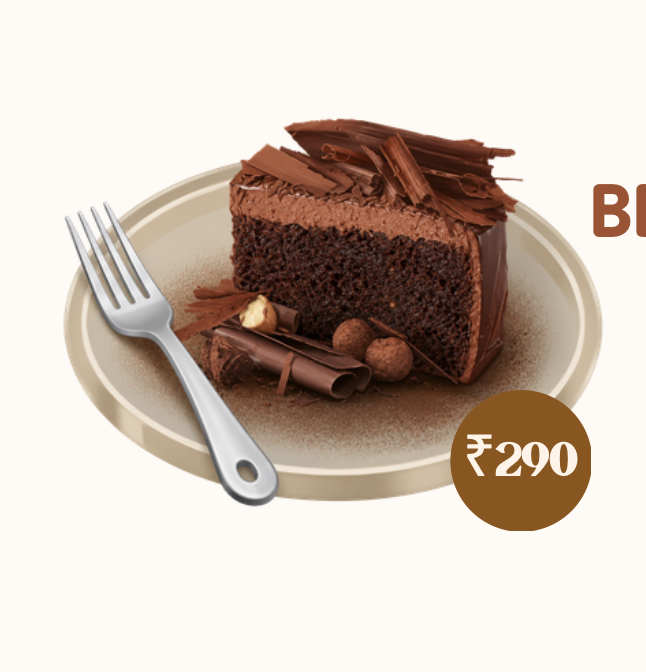
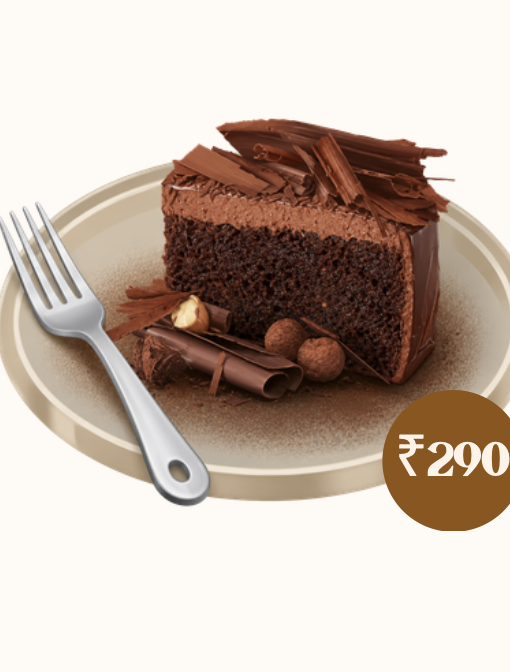
Fix dessert images: natural height + crop BI artifact from ds5
- Use height:auto on inline food photos so images show at full natural
  proportions without any vertical cropping
- Crop ds5.png (Belgian Chocolate Cake) to remove the 'BI' text that
  was baked into the right edge of the source image file

Changed region(s): [[0.0, 0.1562, 1.0, 0.8125]]

diff --git a/public/menu.html b/public/menu.html
@@ -1167,7 +1167,7 @@
             <div class="item-right" id="ctrl-${item.id}">${ctrl}</div>
           </div>
           <div style="padding:0 1rem 1rem;">
-            <img src="${itemImg}" alt="${item.name}" style="width:100%;height:180px;object-fit:cover;border-radius:12px;display:block;${unavailable?'opacity:0.4;filter:grayscale(1);':''}">
+            <img src="${itemImg}" alt="${item.name}" style="width:100%;height:auto;display:block;border-radius:12px;${unavailable?'opacity:0.4;filter:grayscale(1);':''}">
           </div>
         </div>`;
     }
